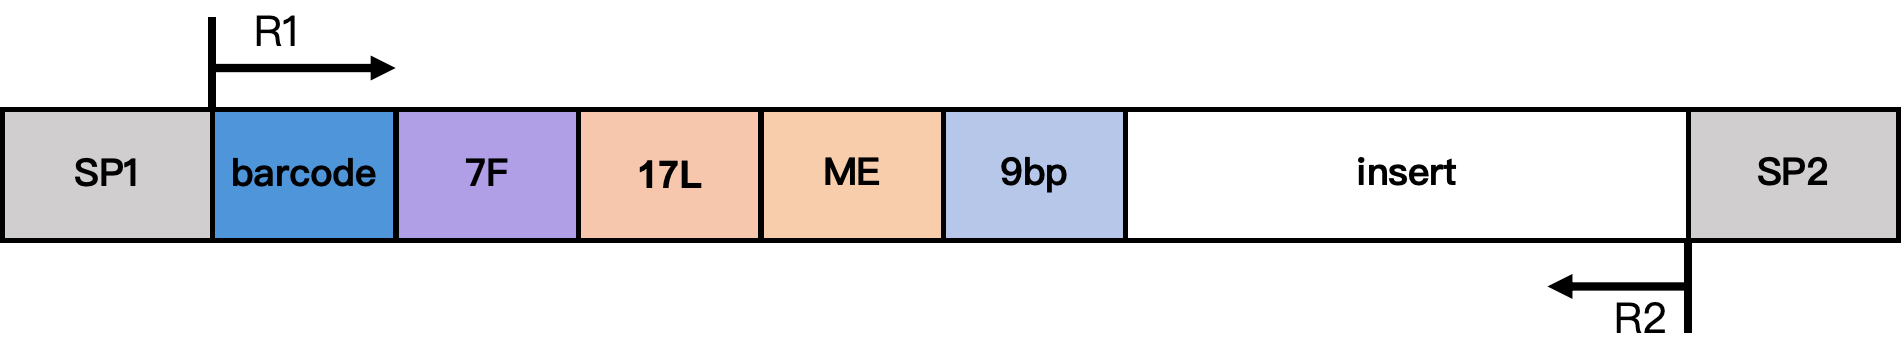
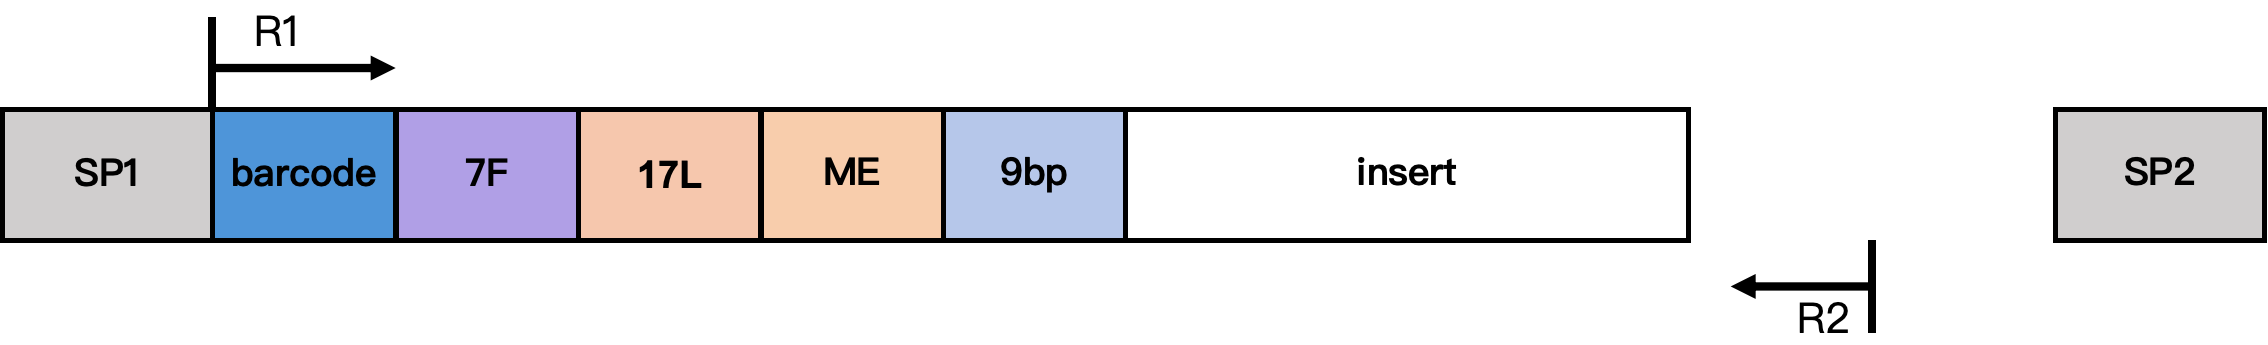
update readme

diff --git a/README.md b/README.md
@@ -202,12 +202,21 @@ Aside from the two positions used for forward and reverse reads determination, t
 <figcaption style="font-size: 0.95em; color: #666; margin-top: 4px;">Figure 3. CT conversion rate</figcaption>
 </figure>
 
+**Artifact removal**
+Remove TSO/7F linker, 17L and ME sequences from Read1 according to their predefined positions in the library design.
+
+**Adapter trimming**
+Use cutadapt to remove ME adapter sequences introduced by R1/R2 read-through events (overlapping paired-end reads).
+
+**Trim 9 bp gaps introduced by Tn5 transposase**
+After removing adapters and other artificial sequences, we additionally trim the 9 bp gaps flanking the inserted fragment that are introduced by Tn5 transposition. These 9 bp regions can carry artificial methylation and spuriously elevate CH methylation adjacent to the insert boundaries, so they are removed prior to downstream analysis.
+
 **Filter reads (optional)**
 Filter based on the number of non-CpG methylated C bases in a read pair. By default, pairs with > 2 non-CpG methylated Cs detected in read1/read2 are removed. If you do not want to enable this filter, set filter_ch to 0.
 
 #### Step 2: Bismark alignment and sorting by name
 **Alignment and tagging**
-We use Bismark for methylation alignment. Our modified [Bismark](https://github.com/seekgene/Bismark.git) adds `--add_barcode` and `--add_umi` to tag BAM files by read name with CB (error-corrected barcode) and UR (raw UMI). For forward-strand reads, we use `-X 1000` to allow insert sizes up to 1000 bp; for reverse-strand reads, we use `--pbat` and `-X 1000`.
+We use Bismark for methylation alignment. Our modified [Bismark](https://github.com/seekgene/Bismark.git) adds `--add_barcode` and `--add_umi` to tag BAM files by read name with CB (error-corrected barcode) and UR (raw UMI). For forward reads, we use `-X 1000` to allow insert sizes up to 1000 bp; for reverse reads, we use `--pbat` and `-X 1000`.
 After alignment, sort BAMs by read name using `samtools sort -n`; the name-sorted BAMs serve as inputs for downstream analysis.
 
 #### Step 3: ALLCools analysis
